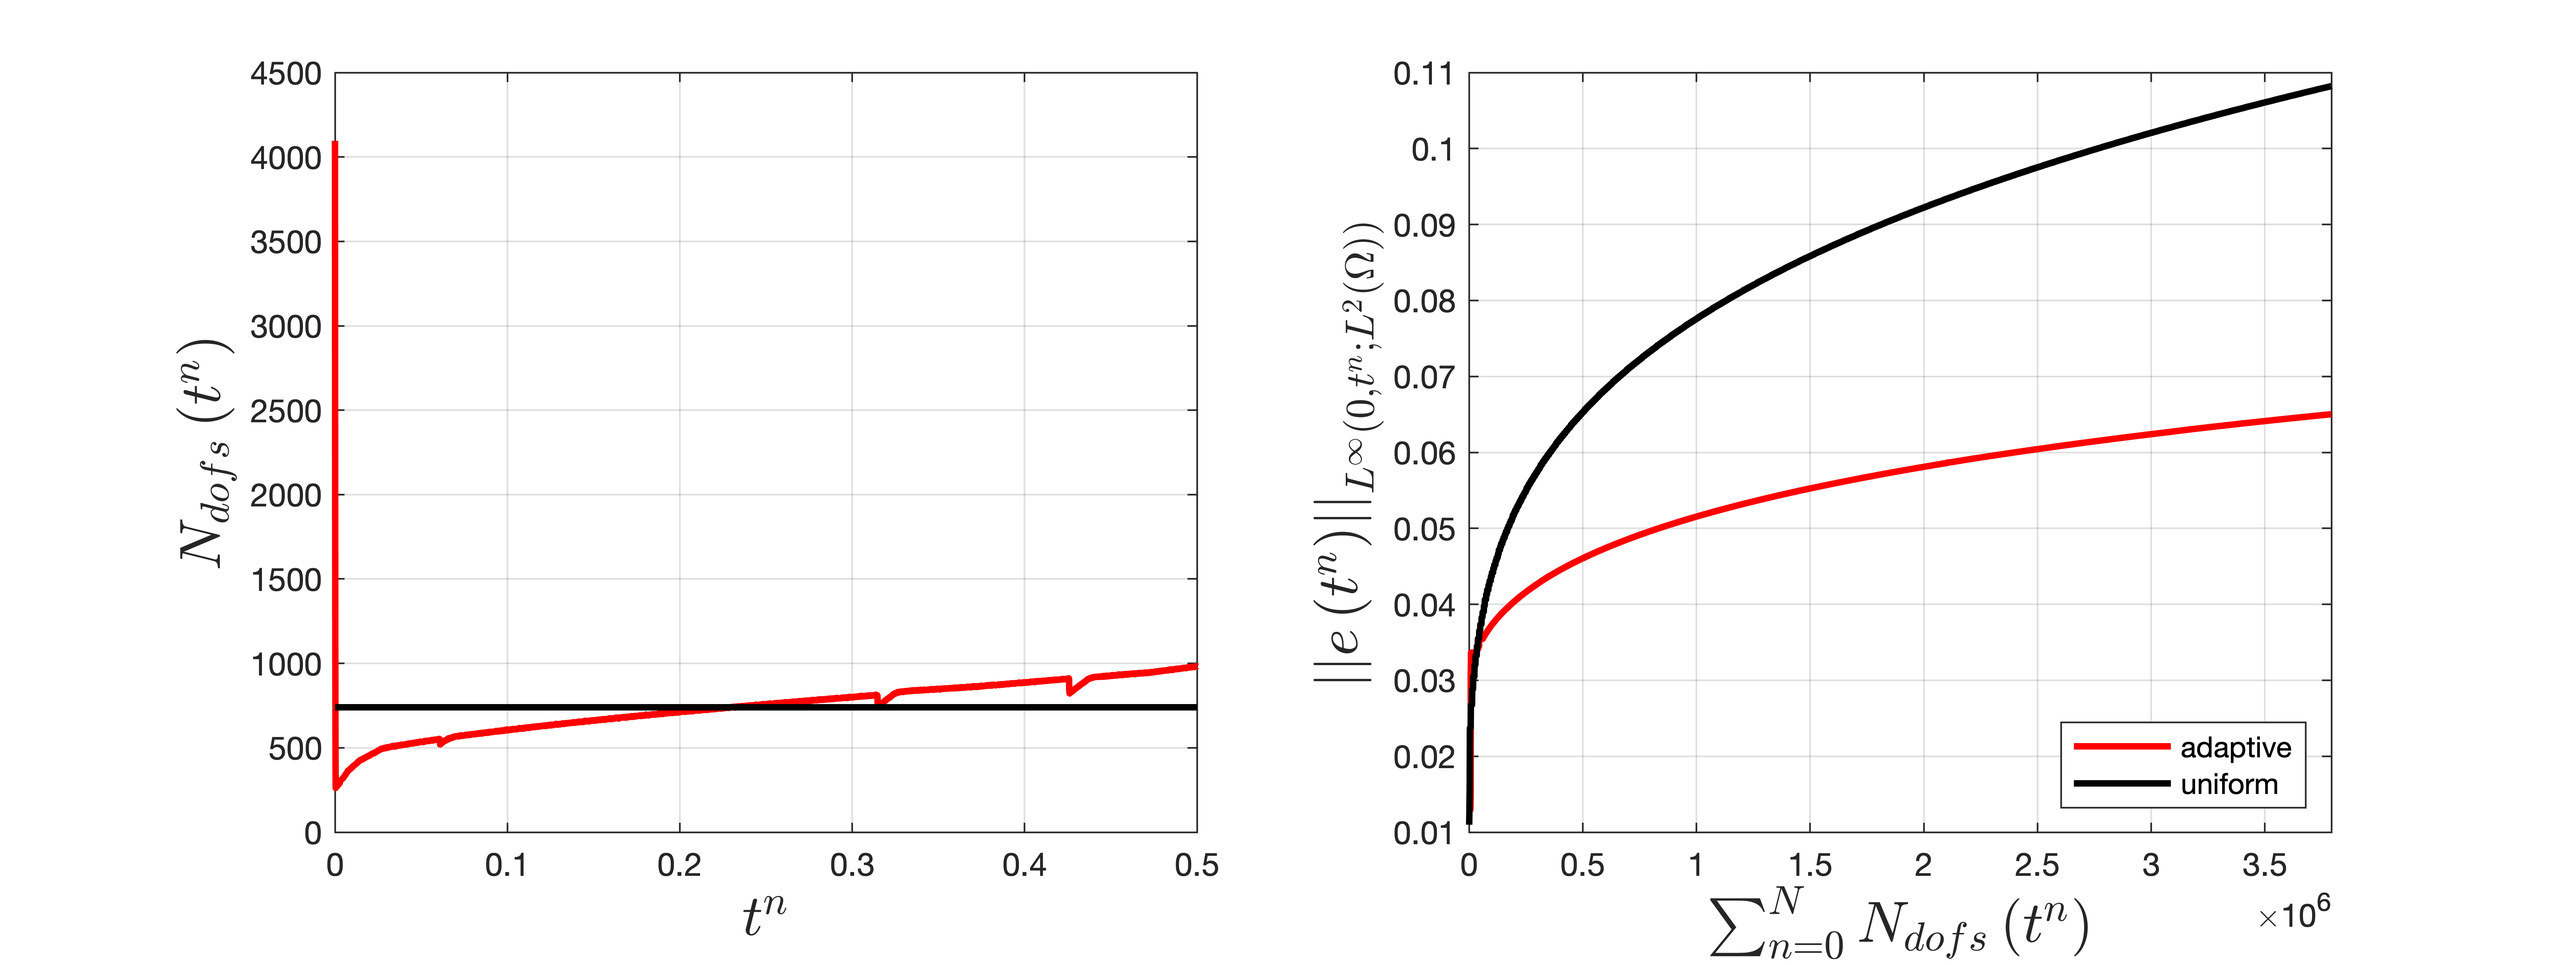
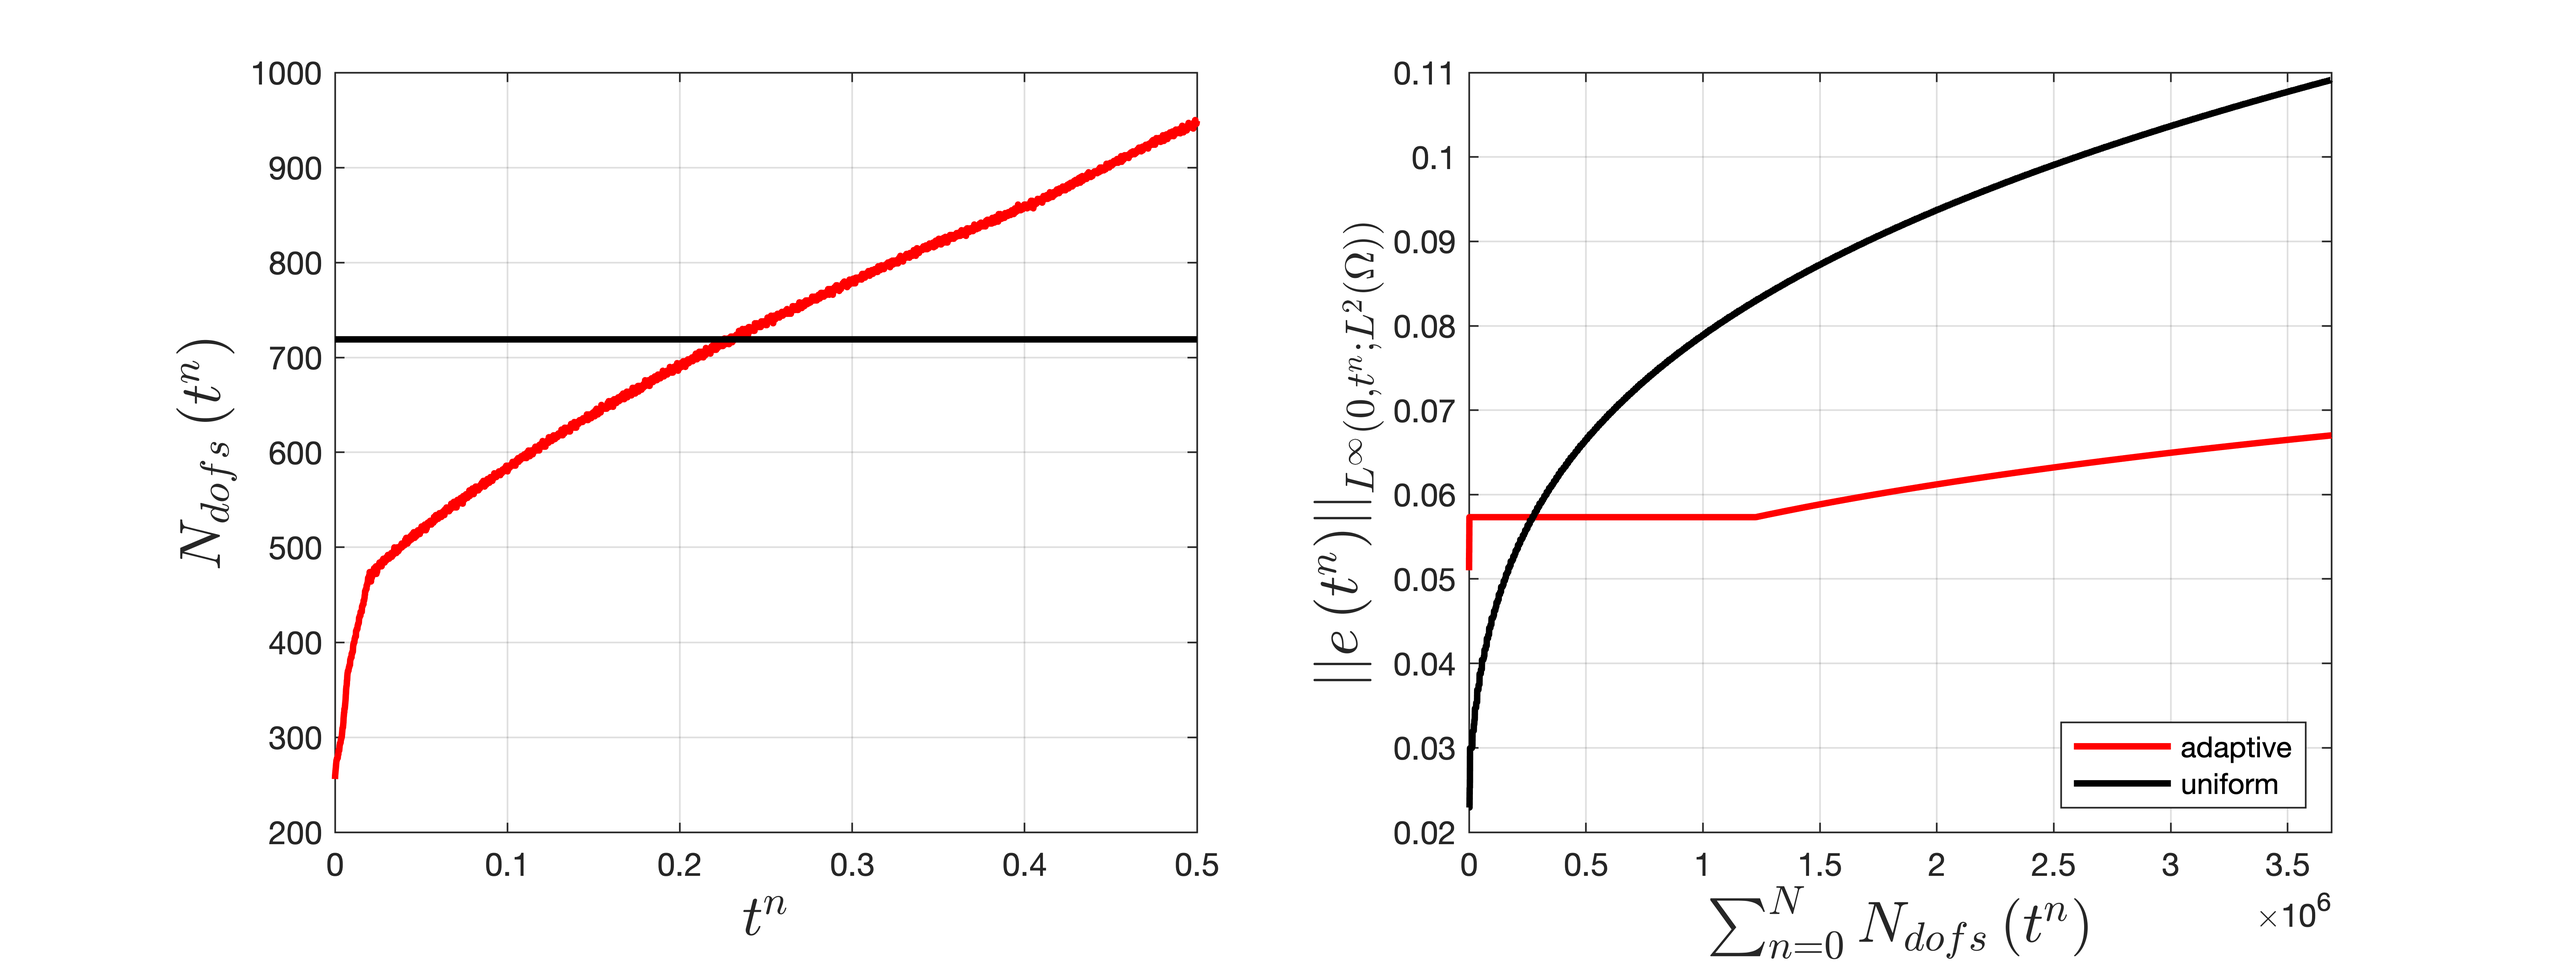
amendments to paper

diff --git a/paper/apostfd.tex b/paper/apostfd.tex
@@ -1647,6 +1647,35 @@ The constants $\Cueta$ and $\Coeta$ represent the minimum and maximum absolute e
 	\end{equation}
 \end{Cor}
 
+
+\begin{Rem} Note that the  result given in Lemma  \ref{cor_stab_control_burgers} loses its robustness in the post-shock regime due to the presence of the reconstruction's derivative, which blows up upon shock formation, in the exponential accumulation factor, see (\ref{eq:burgers_bound}).   The next result on a posteriori error control is from \cite{cockburn1995posteriori}.  It pertains to a posteriori error control for a scalar, non-linear hyperbolic problem and it makes use of the Kruzkov doubling of variable technique (see \cite{kruvzkov1970first},\cite{kuznetsov1976accuracy}).  This estimate retains robustness in the post-shock regime.  We test it for the scalar problem in the post-shock regime.  
+\end{Rem} 
+
+\begin{The}($\leb{1}\qp{\W}$ error bound - \cite[Thm. 2.1]{cockburn1995posteriori})\label{thm:bound_post_shock_burgers} Let $u$ be an entropy solution of the scalar case of (\ref{eq_1d_gen_cons_law}) and denote by $\widehat{U}$ the reconstruction of the numerical solution $\braces{U^n_j}^n_j$ (see Defn.\ref{defn_spatio-temporal reconstruction}).  Then,
+	\begin{equation}\label{eq:bound_burger_cockburn}
+	\begin{aligned}
+	\Norm{u\qp{t} - \widehat{U}\qp{t}}_{\leb{1}\qp{\W}}
+	&\leq 
+	\Norm{u_0-v_0}_{\leb{1}\qp{0,t;\leb{1}\qp{\W}}}
+	+
+	\int_{0}^t\Norm{R\qp{s}}_{\leb{1}\qp{\W}}\mathrm{d}s\\
+	&=:
+	\w_a\qp{t}\mathcal{E}_a\qp{t;\leb{1}\qp{\W}},
+	\end{aligned}
+	\end{equation}
+	where
+	\begin{equation*}
+	\w_a\qp{t}=1\quad \forall t
+	\end{equation*}
+	and
+	\begin{equation*}
+	R:=  \partial_t\widehat{ U}+\partial_x \qp{{f}\qp{\widehat{U}}}
+	\end{equation*}
+	is the discrete residual of the reconstruction.
+\end{The}
+\begin{proof} See \cite[Appendix]{cockburn1995posteriori}.
+\end{proof}
+
 We test the bound (\ref{eq:burgers_bound}) for three different schemes
 - Lax-Friedrichs, Lax-Wendroff and SSP3-WENO - with uniform temporal
 and spatial discretizations, i.e. $\tau^n:=\tau $ $\forall n$ and
@@ -1655,7 +1684,7 @@ $h_j:=h$ $\forall j$.  The reconstruction residual,
 Defn. \ref{defn_temp_rec} for the temporal component and
 Defn. \ref{defn_spatio-temporal reconstruction} for the spatial
 component.
-
+We test the bound (\ref{eq:bound_burger_cockburn}) for the non-linear scalar problem with a discontinuous initial condition with a FTBS scheme and a linear-in-time, WENO3-in-space reconstruction.  The reason we do not test the bound (\ref{eq:burgers_bound}) in this case is because of the blow-up in the exponential factor.
 
 We have implemented the a posteriori bound with these numerical
 schemes in order to benchmark its behaviour before applying it to
@@ -1765,7 +1794,50 @@ In order to explain the behaviour of the bound (\ref{eq:burgers_bound}), we deco
 		with a timestep $\tau = \tfrac{h}{10}$. The blow-up in the time accumulation term is because of the spatial derivative in the exponential factor, which becomes exceedingly large in the presence of shocks. }
 \end{figure}
 
-\subsection{Test 2:  Shallow Water equation.  }  We benchmark the behaviour of the residual for the shallow water equations.
+\subsection{Test 2: Inviscid Burgers equation - step initial condition.}  In this test we benchmark the behaviour of the residual for Burgers equation with a step initial condition given by 
+\begin{equation}\label{eq:burrger_disc_ic}
+\begin{aligned}
+u_0\qp{x}
+=
+\begin{cases}
+0\quad x\leq 0,\\
+1\quad x>0
+\end{cases}
+\end{aligned}
+\end{equation}
+The exact solution is given by 
+\begin{equation}
+\begin{aligned}
+u\qp{x,t}
+=
+\begin{cases}
+0\quad \quad \text{for}\quad &x\leq 0,\\
+x/t\quad \text{for}\quad &0<x\leq t,\\
+1\quad \quad \text{for}\quad &x>t.
+\end{cases}
+\end{aligned}
+\end{equation}
+The results are shown in Fig. \ref{fig:FTBS_burger_step}
+\begin{Rem}[Note on boundary conditions] We caution the reader that we have used periodic boundary conditions for ease of implementation.  In order to ensure the results are not affected by the initial condition travelling over the boundary, we make use of an extended numerical domain and a masking function to discard results outside the closed interval $\qb{-1,1}$. We also run the simulation for a short enough interval to ensure the solution that travels over the periodic boundary does not affect the results in $\qb{-1,1}$.
+\end{Rem}
+
+\begin{figure}[H] 
+	\includegraphics[width=\textwidth]{../figures/fig_FTBS_bound_comparison_burgers_offset_0_rarefaction_simpleinterp}	
+	\caption{
+		\label{fig:FTBS_burger_step}
+		Errors and asymptotic convergence rates for the linear in time,
+		WENO in space reconstruction of the FTBS (\ref{eq:FTBS})
+		approximation of Burgers equation with discontinuous initial condition
+		(\ref{eq:burrger_disc_ic}) and periodic boundary conditions. The simulations were conducted over a family of
+		meshes with discretisation parameter $h = 2^{-m}, m = 9,\dots 12$,
+		with a time-step $\tau = \tfrac{h}{10}$. The estimate (\ref{eq:bound_burger_cockburn})
+		is  optimal for the FTBS scheme with favourable effectivity of
+		$EI \qp{.6} \sim 1.4$.}
+\end{figure}
+
+
+
+\subsection{Test 3:  Shallow Water equation.  }  We benchmark the behaviour of the residual for the shallow water equations.
 \begin{figure}[H]	
 	\includegraphics[width=\textwidth]{../figures/fig_SHW_RK3_WENO3_rec3_fixed_gsplots_1x5_sin_IC_P3_shw}	
 	\caption{\label{fig:SSP3WENO_SHW} Bench marking for the shallow-water equations with a sinusoidal initial condition and periodic boundary conditions. We use an SSP3-WENO3 scheme with $h = 2^{-m}, m = 9,\dots 12$,
@@ -2120,7 +2192,7 @@ initial condition.  The initial fine mesh is given by $h=32\pi \times
 \begin{figure}[H]
 \centering
 \includegraphics[width=\textwidth]{../figures/fig_SHW_dambreak_RK3_WENO3_rec_3_fixed_gsplots_1x5_shw_dambreak_comparison_adaptONOFF}	
-	\caption{\label{fig:SSP3WENO3_shw_dambreak_adapt} An adaptive simulation of the shallow water equations for the dam-break problem using an SSP3-WENO3 discretization and free outflow boundary conditions.  The simulation starts at the maximum allowable refinement level with a uniform grid with $h=32\pi \times 2^{-14}$ and a temporal step $\tau =\frac{32\pi\times2^{-12}}{10}$ which remains constant throughout the simulation. The equivalent uniform grid has $1622$ degrees of freedom.  The residual is constructed using a bilinear Lagrange indicator.  Notice that the indicator automatically coarsens the grid at the beginning of the simulation, resulting in a steep decrease in the number of freedom away from the discontinuity. The behaviour in the adaptive case is almost identical with that of the finest resolution despite the considerable difference in degrees of freedom (the two results are almost entirely coincident on the right plot).  This is because, for this problem, the features of refinement interest are concentrated in small areas, allowing for good resolution with relatively few degrees of freedom. }
+	\caption{\label{fig:SSP3WENO3_shw_dambreak_adapt} An adaptive simulation of the shallow water equations for the dam-break problem using an SSP3-WENO3 discretization and free outflow boundary conditions.  The simulation starts at the maximum allowable refinement level with a uniform grid with $h=32\pi \times 2^{-14}$ and a temporal step $\tau =\frac{32\pi\times2^{-12}}{10}$ which remains constant throughout the simulation. The equivalent uniform grid has $2183$ degrees of freedom.  The residual is constructed using a bilinear Lagrange indicator.  Notice that the indicator automatically coarsens the grid at the beginning of the simulation, resulting in a steep decrease in the number of freedom away from the discontinuity. The behaviour in the adaptive case is almost identical with that of the finest resolution despite the considerable difference in degrees of freedom (the two results are almost entirely coincident on the right plot).  This is because, for this problem, the features of refinement interest are concentrated in small areas, allowing for good resolution with relatively few degrees of freedom. }
 \end{figure}
 
 \section{Conclusions}\label{sec:conclusion}
